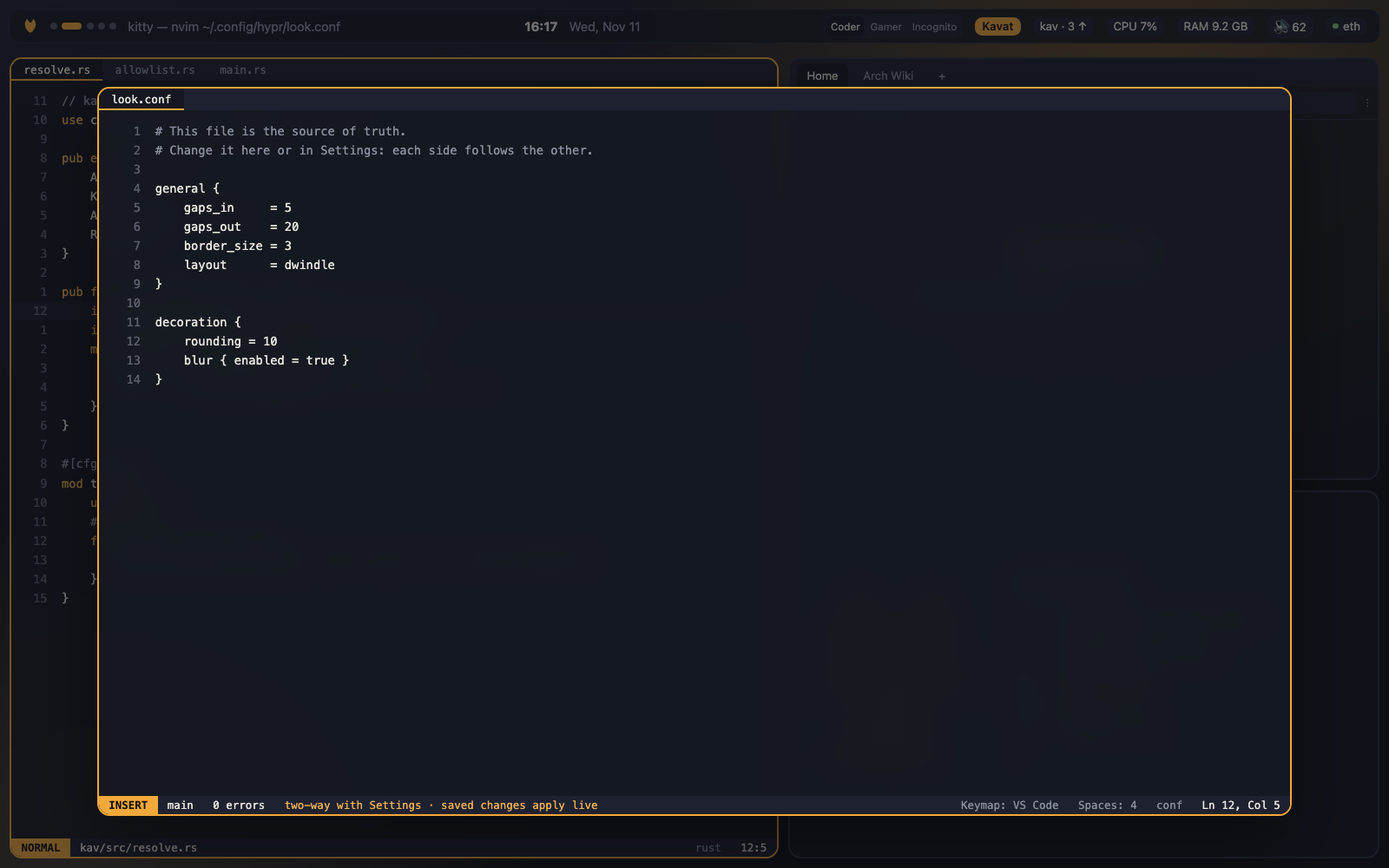
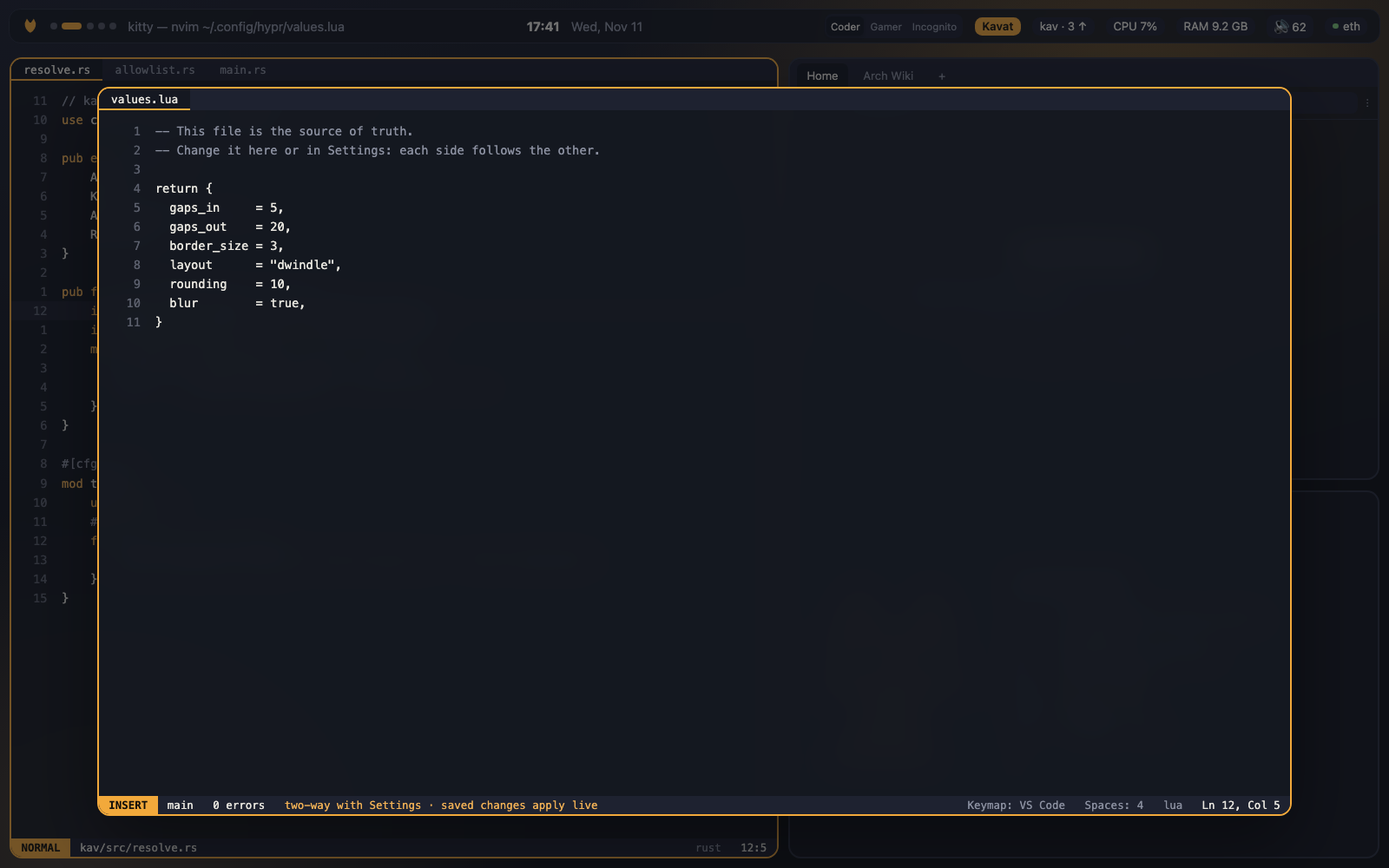
Design: approve four kav mechanisms, Hyprland config in Lua, shell decision
Decisions taken after the study of other distributions:

- kav gains one-time migrations after each update, Arch manual interventions
  as guided steps, two transaction guards, and a health check that remembers
  the last good snapshot (also the mechanism for the automatic safe mode).
  The rest of the shortlisted ideas are dropped to keep the system simple.
- Hyprland is configured in Lua; the settings panel and the agent only write
  a table of plain values that the system's Lua loads.
- Shell: Noctalia if it can host what the design needs, another shell
  otherwise; the evaluation of Noctalia 5 is in progress.
- The Claude side panel as a Kitty split and the Yazi copy pop-up are
  confirmed as designed.
- 'Decisiones en revisión' now carries a status per item.

diff --git a/docs/mockup/index.html b/docs/mockup/index.html
@@ -635,7 +635,7 @@ body.bare .monitor{width:100vw;border-radius:0;box-shadow:none}
         <div class="spage" data-page="appearance"><h2>Appearance <small>one theme, every app</small></h2><div class="sgrid"><div class="col"><div class="blk"><div class="sec">Palette</div><div class="cards js-cards"></div></div><div class="blk"><div class="sec">Mode</div><div class="seg js-mode"><button data-mode="light">Light</button><button data-mode="dark">Dark</button><button data-mode="auto">Auto</button></div></div><div class="blk"><div class="sec">Accent</div><div class="sw js-acc"></div></div></div><div class="col"><div class="blk"><div class="sec">Tone &amp; contrast</div><div class="rows"><div class="row"><span>Tone</span><div class="seg local"><button class="on">Neutral</button><button>Warm</button><button>Cool</button></div></div><div class="row"><span>Contrast</span><div class="seg local"><button class="on">Normal</button><button>High</button></div></div><div class="row"><span>OLED black</span><button class="tog" data-tog="oled"></button></div></div></div><div class="blk"><div class="sec">Typography</div><div class="rows"><div class="row"><span>Interface</span><div class="sel"><span>Inter</span><span class="muted">▾</span></div></div><div class="row"><span>Monospace</span><div class="sel"><span>JetBrains Mono Nerd Font</span><span class="muted">▾</span></div></div><div class="row"><span>Scale</span><div class="sel"><span>100%</span><span class="muted">▾</span></div></div></div></div><div class="blk"><div class="sec">Profiles</div><div class="rows"><div class="chips"><span class="pill">work</span><span class="pill accent">night</span><span class="pill">presenting</span><span class="pill">+ Save current</span></div><div class="row w"><span>Switch to “night” at sunset</span><button class="tog on"></button></div><div class="row w"><span>Keyboard and case lights follow the accent</span><button class="tog on"></button></div></div></div></div></div></div>
         <div class="spage" data-page="wallpaper"><h2>Wallpaper <small>image or live video · <span class="js-wallstate"></span></small></h2><div class="sgrid"><div class="col"><div class="blk"><div class="sec">Library</div><div class="ktool" style="margin-bottom:.7em"><div class="seg local"><button class="on">All</button><button>Images</button><button>Live</button></div><span class="sp"></span><span class="btn">+ Add file</span></div><div class="wgrid"><button class="wcard" data-wall="theme"><span class="wpv w-theme"></span><span class="wl"><span>Kavat</span><span class="muted">Image</span></span></button><button class="wcard" data-wall="dunes"><span class="wpv w-dunes"></span><span class="wl"><span>Dunes</span><span class="muted">Image</span></span></button><button class="wcard" data-wall="mesh"><span class="wpv w-mesh"></span><span class="wl"><span>Mesh</span><span class="muted">Image</span></span></button><button class="wcard" data-wall="aurora"><span class="wpv w-aurora"></span><span class="wl"><span>Aurora</span><span class="live">▶ Live</span></span></button><button class="wcard" data-wall="ember"><span class="wpv w-ember"></span><span class="wl"><span>Ember</span><span class="live">▶ Live</span></span></button><button class="wcard"><span class="wpv wadd">+</span><span class="wl"><span class="muted">Drop a file here</span></span></button></div></div><div class="blk"><div class="sec">Folders</div><div class="rows"><div class="row"><span>Images</span><div class="sel"><span>~/Pictures/Wallpapers/images</span><span class="muted">▾</span></div></div><div class="row"><span>Live</span><div class="sel"><span>~/Pictures/Wallpapers/live</span><span class="muted">▾</span></div></div><div class="row"><span>Slideshow</span><div class="sel"><span>Off</span><span class="muted">▾</span></div></div></div></div></div><div class="col"><div class="blk"><div class="sec">Live wallpaper</div><div class="rows"><div class="row"><span>Player</span><div class="sel"><span>mpvpaper</span><span class="muted">▾</span></div></div><div class="row"><span>Engine package</span><span class="ok">mpvpaper installed · kept by kav</span></div><div class="row"><span>Sound</span><button class="tog"></button></div><div class="row"><span>Fit</span><div class="sel"><span>Fill</span><span class="muted">▾</span></div></div><div class="row"><span>GPU decoding</span><button class="tog on"></button></div></div></div><div class="blk"><div class="sec">Pause the video when</div><div class="rows"><div class="row w"><span>A window is fullscreen</span><button class="tog on"></button></div><div class="row w"><span>The wallpaper is covered</span><button class="tog on"></button></div><div class="row w"><span>Gamer mode is on</span><button class="tog on"></button></div><div class="row w"><span>The screen is locked or off</span><button class="tog on"></button></div></div></div><div class="blk"><div class="sec">Also</div><div class="rows"><div class="row w"><span>Login and lock use a still frame</span><button class="tog on"></button></div><div class="row w"><span>Take theme colors from the wallpaper</span><button class="tog"></button></div><div class="row w"><span>A different wallpaper per display</span><button class="tog"></button></div></div></div></div></div></div>
         <div class="spage" data-page="access"><h2>Accessibility <small>easier to see, calmer to use</small></h2><div class="sgrid"><div class="col"><div class="blk"><div class="sec">Motion</div><div class="rows"><div class="row"><span>Reduce motion</span><button class="tog"></button></div><div class="row"><span>Also stops live wallpapers</span><button class="tog on"></button></div></div></div><div class="blk"><div class="sec">Text</div><div class="rows"><div class="row"><span>Text scale</span><div class="seg local"><button class="on">100%</button><button>110%</button><button>125%</button><button>150%</button></div></div><div class="row"><span>Applies to</span><span class="muted">every app, no resolution change</span></div></div></div></div><div class="col"><div class="blk"><div class="sec">Contrast</div><div class="rows"><div class="row"><span>High contrast</span><button class="tog"></button></div><div class="row"><span>Same switch as</span><span class="muted">Appearance → Contrast</span></div></div></div><div class="muted hint">These write the same values as Appearance and Windows. They are grouped here so they are easy to find.</div></div></div></div>
-        <div class="spage" data-page="windows"><h2>Windows <small>Hyprland · changes apply live</small></h2><div class="sgrid"><div class="col"><div class="blk"><div class="sec">Layout</div><div class="rows"><div class="row"><span>Tiling</span><div class="sel"><span>Dwindle</span><span class="muted">▾</span></div></div><div class="row"><span>Gaps</span><input type="range" data-bind="gap" min="0" max="1.6" step="0.1"></div><div class="row"><span>Corner radius</span><input type="range" data-bind="rad" min="0" max="1.6" step="0.1"></div><div class="row"><span>Border width</span><div class="sel"><span>3 px</span><span class="muted">▾</span></div></div></div></div><div class="blk"><div class="sec">Input</div><div class="rows"><div class="row"><span>Keyboard</span><div class="sel"><span>English (US)</span><span class="muted">▾</span></div></div><div class="row"><span>Focus follows mouse</span><button class="tog on"></button></div><div class="row"><span>Pointer speed</span><input type="range" min="0" max="100" value="50"></div></div></div></div><div class="col"><div class="blk"><div class="sec">Effects</div><div class="rows"><div class="row"><span>Blur</span><button class="tog" data-tog="blur"></button></div><div class="row"><span>Animations</span><button class="tog on"></button></div><div class="row"><span>Animation speed</span><div class="sel"><span>Fast</span><span class="muted">▾</span></div></div><div class="row"><span>Shadows</span><button class="tog on"></button></div></div></div><div class="blk"><div class="sec">Window rules</div><div class="rows"><div class="row"><span>Steam</span><div class="sel"><span>Workspace 5 · float dialogs</span><span class="muted">▾</span></div></div><div class="row"><span>Vesktop</span><div class="sel"><span>Workspace 4</span><span class="muted">▾</span></div></div><div class="chips"><span class="btn">+ Add rule</span></div></div></div></div></div><div class="note">Two-way: change a value here and its line in <span class="mono">~/.config/hypr/look.conf</span> is rewritten; edit the file and this page follows. <u data-cfg="windows">Open it in Neovim</u></div></div>
+        <div class="spage" data-page="windows"><h2>Windows <small>Hyprland · changes apply live</small></h2><div class="sgrid"><div class="col"><div class="blk"><div class="sec">Layout</div><div class="rows"><div class="row"><span>Tiling</span><div class="sel"><span>Dwindle</span><span class="muted">▾</span></div></div><div class="row"><span>Gaps</span><input type="range" data-bind="gap" min="0" max="1.6" step="0.1"></div><div class="row"><span>Corner radius</span><input type="range" data-bind="rad" min="0" max="1.6" step="0.1"></div><div class="row"><span>Border width</span><div class="sel"><span>3 px</span><span class="muted">▾</span></div></div></div></div><div class="blk"><div class="sec">Input</div><div class="rows"><div class="row"><span>Keyboard</span><div class="sel"><span>English (US)</span><span class="muted">▾</span></div></div><div class="row"><span>Focus follows mouse</span><button class="tog on"></button></div><div class="row"><span>Pointer speed</span><input type="range" min="0" max="100" value="50"></div></div></div></div><div class="col"><div class="blk"><div class="sec">Effects</div><div class="rows"><div class="row"><span>Blur</span><button class="tog" data-tog="blur"></button></div><div class="row"><span>Animations</span><button class="tog on"></button></div><div class="row"><span>Animation speed</span><div class="sel"><span>Fast</span><span class="muted">▾</span></div></div><div class="row"><span>Shadows</span><button class="tog on"></button></div></div></div><div class="blk"><div class="sec">Window rules</div><div class="rows"><div class="row"><span>Steam</span><div class="sel"><span>Workspace 5 · float dialogs</span><span class="muted">▾</span></div></div><div class="row"><span>Vesktop</span><div class="sel"><span>Workspace 4</span><span class="muted">▾</span></div></div><div class="chips"><span class="btn">+ Add rule</span></div></div></div></div></div><div class="note">Two-way: this page writes plain values to <span class="mono">~/.config/hypr/values.lua</span>, which Hyprland’s Lua configuration loads; edit the file and this page follows. <u data-cfg="windows">Open it in Neovim</u></div></div>
         <div class="spage" data-page="keys"><h2>Keybindings <small>28 bindings · yours from Endgame, plus the new ones</small></h2><div class="ktool"><div class="find" style="flex:1">Filter bindings…</div><div class="seg local"><button class="on">All</button><button>Windows</button><button>Workspaces</button><button>Apps</button><button>System</button></div><span class="btn">Cheat sheet</span></div><div class="ktab"><div class="kr head"><span>Action</span><span>Shortcut</span><span>Source</span></div><div class="kr"><span>Terminal</span><span class="keys"><span class="kbd">Super</span><span class="kbd">Enter</span></span><span><span class="badge muted">Endgame</span></span></div><div class="kr"><span>Close window</span><span class="keys"><span class="kbd">Super</span><span class="kbd">Q</span></span><span><span class="badge muted">Endgame</span></span></div><div class="kr"><span>App launcher</span><span class="keys"><span class="kbd">Super</span><span class="kbd">D</span></span><span><span class="badge muted">Endgame</span></span></div><div class="kr"><span>Files (Yazi)</span><span class="keys"><span class="kbd">Super</span><span class="kbd">E</span></span><span><span class="badge muted">Endgame</span></span></div><div class="kr"><span>Toggle floating</span><span class="keys"><span class="kbd">Super</span><span class="kbd">V</span></span><span><span class="badge muted">Endgame</span></span></div><div class="kr"><span>Toggle split</span><span class="keys"><span class="kbd">Super</span><span class="kbd">J</span></span><span><span class="badge muted">Endgame</span></span></div><div class="kr"><span>Move focus</span><span class="keys"><span class="kbd">Super</span><span class="kbd">← ↑ ↓ →</span></span><span><span class="badge muted">Endgame</span></span></div><div class="kr"><span>Go to workspace</span><span class="keys"><span class="kbd">Super</span><span class="kbd">1 … 0</span></span><span><span class="badge muted">Endgame</span></span></div><div class="kr"><span>Scratchpad</span><span class="keys"><span class="kbd">Super</span><span class="kbd">S</span></span><span><span class="badge muted">Endgame</span></span></div><div class="kr"><span>Clipboard history</span><span class="keys"><span class="kbd">Super</span><span class="kbd">Shift</span><span class="kbd">V</span></span><span><span class="badge muted">Endgame</span></span></div><div class="kr"><span>Lock</span><span class="keys"><span class="kbd">Super</span><span class="kbd">Shift</span><span class="kbd">L</span></span><span><span class="badge muted">Endgame</span></span></div><div class="kr"><span>Ask Kavat</span><span class="keys"><span class="kbd">Super</span><span class="kbd">Space</span></span><span><span class="badge acc">Kavat</span></span></div><div class="kr"><span>Switch mode</span><span class="keys"><span class="kbd">Super</span><span class="kbd">Shift</span><span class="kbd">M</span></span><span><span class="badge acc">Kavat</span></span></div><div class="kr edit"><span>Theme picker</span><span class="keys"><span class="kbd">Super</span><span class="kbd">J</span><span class="bad" style="margin-left:.6em">already used by “Toggle split”</span></span><span><span class="btn">Keep Super+T</span></span></div></div></div>
         <div class="spage" data-page="displays"><h2>Displays <small>1 connected</small></h2><div class="sgrid"><div class="col"><div class="dcanvas"><div class="dmon"><div><b>1</b><br><span class="muted">DP-1</span></div></div></div><div class="muted hint">Drag displays to arrange them. A second display shows up here when you plug it in.</div><div class="blk"><div class="sec">Workspaces</div><div class="rows"><div class="row"><span>Workspaces 1–10</span><div class="sel"><span>DP-1</span><span class="muted">▾</span></div></div><div class="row"><span>New displays</span><div class="sel"><span>Extend to the right</span><span class="muted">▾</span></div></div></div></div></div><div class="col"><div class="blk"><div class="sec">DP-1</div><div class="rows"><div class="row"><span>Resolution</span><div class="sel"><span>1920 × 1080</span><span class="muted">▾</span></div></div><div class="row"><span>Refresh rate</span><div class="sel"><span>100 Hz</span><span class="muted">▾</span></div></div><div class="row"><span>Scale</span><div class="sel"><span>100%</span><span class="muted">▾</span></div></div><div class="row"><span>Rotation</span><div class="sel"><span>None</span><span class="muted">▾</span></div></div><div class="row"><span>Adaptive sync</span><button class="tog on"></button></div></div></div><div class="blk"><div class="sec">Night light</div><div class="rows"><div class="row"><span>Enabled</span><button class="tog"></button></div><div class="row"><span>Schedule</span><div class="sel"><span>Sunset to sunrise</span><span class="muted">▾</span></div></div><div class="row"><span>Warmth</span><input type="range" min="0" max="100" value="40"></div></div></div></div></div></div>
         <div class="spage" data-page="gpu"><h2>GPU <small>Radeon RX 6800 · 16 GB</small></h2><div class="sgrid"><div class="col"><div class="blk"><div class="sec">Right now</div><div class="rows"><div class="row"><span>Temperature</span><span class="">58 °C</span></div><div class="row"><span>Fan</span><span class="">34%</span></div><div class="row"><span>Power</span><span class="">96 W</span></div><div class="row"><span>Memory</span><span class="">3.9 of 16 GB</span></div></div></div><div class="blk"><div class="sec">Fan curve</div><svg class="fcurve" viewBox="0 0 200 70" preserveAspectRatio="none"><polyline points="0,62 50,58 100,42 150,20 200,5" fill="none" stroke="currentColor" stroke-width="2" vector-effect="non-scaling-stroke"/></svg><div class="rows" style="margin-top:.6em"><div class="row"><span>Curve</span><div class="seg local"><button>Quiet</button><button class="on">Balanced</button><button>Cool</button></div></div></div></div></div><div class="col"><div class="blk"><div class="sec">Limits</div><div class="rows"><div class="row"><span>Power limit</span><div class="sel"><span>Stock</span><span class="muted">▾</span></div></div><div class="row"><span>Sensors in the bar</span><button class="tog on"></button></div></div></div><div class="blk"><div class="sec">Per-game profiles</div><div class="lst"><div class="li"><span class="">Default</span><span class="sp"></span><span class="muted">no frame cap · overlay off</span></div><div class="li"><span class="">Competitive</span><span class="sp"></span><span class="muted">240 fps cap · overlay on · cool fans</span></div><div class="li"><span class="">Story games</span><span class="sp"></span><span class="muted">60 fps cap · quiet fans</span></div></div><div class="chips"><span class="btn">+ New profile</span><span class="btn">Assign to a game</span></div></div></div></div></div>
@@ -836,9 +836,9 @@ const esc=t=>t.replace(/&/g,'&amp;').replace(/</g,'&lt;').replace(/>/g,'&gt;');
 const CFG={
   appearance:['~/.config/kavat/theme.toml',()=>[`palette = "${S.pal}"`,`mode    = "${S.mode}"`,`accent  = ${S.acc+1}`,`radius  = ${Math.round(S.rad*11)}`,`blur    = ${S.blur}`,`oled    = ${S.oled}`]],
   wallpaper:['~/.config/kavat/settings.toml',()=>['[wallpaper]',`current = "${S.wall}"`,`kind    = "${['aurora','ember'].includes(S.wall)?'video':'image'}"`,'player  = "mpvpaper"','sound   = false','pause_when = ["fullscreen", "covered", "gamer", "locked"]']],
-  windows:['~/.config/hypr/look.conf',()=>['general {',`    gaps_in     = ${Math.round(S.gap*7)}`,`    gaps_out    = ${Math.round(S.gap*28)}`,'    border_size = 3','    layout      = dwindle','}','','decoration {',`    rounding = ${Math.round(S.rad*11)}`,`    blur { enabled = ${S.blur} }`,'}']],
-  keys:['~/.config/hypr/binds.conf',()=>['bind = SUPER, Return, exec, kitty','bind = SUPER, Q, killactive,','bind = SUPER, D, exec, kavat launcher','bind = SUPER, E, exec, kitty -e yazi','bind = SUPER, Space, exec, kavat ask','bind = SUPER SHIFT, M, exec, kavat mode next']],
-  displays:['~/.config/hypr/monitors.conf',()=>['monitor = DP-1, 1920x1080@100, 0x0, 1','misc { vrr = 1 }']],
+  windows:['~/.config/hypr/values.lua',()=>['return {',`  gaps_in     = ${Math.round(S.gap*7)},`,`  gaps_out    = ${Math.round(S.gap*28)},`,'  border_size = 3,','  layout      = "dwindle",',`  rounding    = ${Math.round(S.rad*11)},`,`  blur        = ${S.blur},`,'}']],
+  keys:['~/.config/hypr/binds.lua',()=>['return {','  { "SUPER", "Return", exec = "kitty" },','  { "SUPER", "Q", action = "close" },','  { "SUPER", "D", exec = "kavat launcher" },','  { "SUPER", "E", exec = "kitty -e yazi" },','  { "SUPER", "Space", exec = "kavat ask" },','  { "SUPER SHIFT", "M", exec = "kavat mode next" },','}']],
+  displays:['~/.config/hypr/monitors.lua',()=>['return {','  { name = "DP-1", mode = "1920x1080@100", position = "0x0", scale = 1 },','  vrr = true,','}']],
   terminal:['~/.config/kitty/kitty.conf',()=>['font_family          JetBrains Mono Nerd Font','font_size            12.0','background_opacity   0.92','window_padding_width 12','cursor_shape         block','scrollback_lines     10000','include              kavat-theme.conf']],
   editor:['~/.config/nvim/init.lua',()=>['require("kavat").setup({','  keymap = "vscode",','  open_ready_to_type = true,','  line_numbers = "relative",','  format_on_save = true,','})','','vim.opt.tabstop = 4']],
   files:['~/.config/yazi/yazi.toml',()=>['[mgr]','show_hidden    = false','sort_by        = "natural"','sort_dir_first = true','','[opener]','edit = [{ run = \'nvim "$@"\', block = true }]','pdf  = [{ run = \'zathura "$@"\', orphan = true }]']],

diff --git a/docs/DESIGN.md b/docs/DESIGN.md
@@ -127,6 +127,8 @@ Hyprland compone las ventanas y un fork de Noctalia (hecho sobre Quickshell) pon
 - Los atajos parten de los de tu Willwitcher-OS Endgame, sin cambiar ninguno; lo nuevo solo ocupa teclas que tenías libres. Una hoja de atajos se genera desde la configuración.
 - Animaciones, bordes, radio y desenfoque salen de los tokens del tema, no de valores escritos a mano. Los valores iniciales son los de Endgame: radio 10, borde 2, separación 5 entre ventanas y 20 al borde, animaciones cortas.
 
+Desde Hyprland 0.55 la configuración es Lua, y así se usa. El panel de ajustes y el agente no generan Lua: escriben una tabla de valores, que son datos, y el Lua del sistema la carga. Así ningún texto que venga de fuera llega a ejecutarse.
+
 Atajos: 19 heredados de Endgame tal cual y 9 nuevos para lo que antes no existía.
 
 | Acción | Atajo | Origen |
@@ -256,7 +258,7 @@ Cómo funciona:
 - **Calle de doble sentido.** Si cambias un valor a mano, el panel lo muestra al momento. Si lo cambias en el panel, el panel edita esa línea en el archivo, sin tocar el resto ni los comentarios. No hay una segunda copia que pueda quedar desfasada.
 - **Validar antes de aplicar.** Cada cambio de configuración, venga del panel o de tu editor, se comprueba antes de cargarse. Si el escritorio no recarga bien, vuelve solo a la última versión buena y te dice qué línea falló. Si aun así no arranca, queda el modo seguro del menú de arranque.
 - **Lo que el panel no tiene vive solo en el archivo.** El panel no lo toca, no lo oculta y no lo borra.
-- **Límite en archivos que son código.** En el `init.lua` de Neovim y en `.zshrc`, el panel solo edita el bloque de ajustes que le corresponde; el resto lo deja como está y lo abre en Neovim.
+- **Límite en archivos que son código.** En `la configuración de Hyprland, que es Lua, en el init.lua de Neovim y en .zshrc, el panel solo edita su tabla de valores o su bloque de ajustes`; el resto lo deja como está y lo abre en Neovim.
 - **Abrir la configuración en Neovim, en todas partes.** Cada página del panel y cada pieza del sistema (el panel del agente, el selector de temas, `kav`, Yazi, el navegador, el marketplace) tiene un botón que abre su archivo de configuración en Neovim, en la sección que corresponde.
 - **En vivo y reversible**: cada cambio, venga del panel o del archivo, se aplica al instante; tiene deshacer y queda en un historial para volver a cualquier estado anterior.
 - **Editor de atajos**: muestra todos, detecta conflictos al asignar y regenera la hoja de atajos.
@@ -440,6 +442,13 @@ Tres reglas de la TUI:
 - Los paquetes oficiales se actualizan todos juntos: Arch no soporta actualizaciones parciales, así que la TUI no ofrece elegir uno suelto.
 - Teclado primero, con ratón opcional: los números cambian de pestaña, `/` busca y `?` muestra la ayuda.
 - Usa los colores del tema del sistema y comparte ajustes con la página Packages del panel de Noctalia.
+
+**Actualizaciones que no te dejan a medias.** Cuatro mecanismos tomados de otras distros, aprobados tras el análisis:
+
+- **Migraciones** (de Omarchy): cuando una versión nueva necesita cambiar algo que pacman no gestiona, como tu configuración o un servicio de usuario, lo hace un script que corre una sola vez, después de pacman y en orden. Si uno falla, la cola se detiene y te avisa; nunca migra en silencio. Su estado se guarda dentro de la raíz, así que volver a un snapshot también deshace las migraciones.
+- **Intervenciones guiadas** (de Garuda y EndeavourOS): cada «intervención manual» que publica Arch se convierte en un paso de `kav update` que explica qué pasa, enseña el comando, pide confirmación y anota que ya se aplicó. El primer caso es volver a inscribir el TPM2 tras mkinitcpio 42.
+- **Dos guardas de transacción** (de Omarchy): si un archivo sin dueño choca con un paquete, se aparta, se reintenta una vez y se devuelve lo que el paquete no reclamó; y Hyprland no recarga su configuración mientras pacman la está cambiando, sino una sola vez al final.
+- **Comprobación de salud con memoria** (de openSUSE): tras cada actualización y en cada arranque se comprueba que el sistema está sano, y se guarda cuál fue la última instantánea buena. Si falla justo después de actualizar, vuelve a esa instantánea; si falla un sistema que ya funcionaba, reinicia una vez y, si sigue mal, se queda encendido con los servicios parados. Es también el mecanismo del modo seguro automático.
 
 ## Sistema de temas
 
@@ -655,53 +664,39 @@ La fase 1 usa Hyprland y Noctalia tal como vienen; los forks y la identidad entr
 
 ## Decisiones en revisión
 
-El análisis de Omarchy y de otras distros encontró ocho hechos de 2026 que tocan decisiones ya escritas en este documento. Ninguna está cambiada todavía: cada una espera tu decisión. El informe completo, con sus fuentes, está en [`reports/Ideas de otras distros Linux.md`](../reports/Ideas%20de%20otras%20distros%20Linux.md).
+El análisis de Omarchy y de otras distros encontró ocho hechos de 2026 que tocan decisiones ya escritas en este documento. La columna Estado dice cuáles ya tienen respuesta y cuáles esperan tu decisión. El informe completo, con sus fuentes, está en [`reports/Ideas de otras distros Linux.md`](../reports/Ideas%20de%20otras%20distros%20Linux.md).
 
-| # | Decisión que toca | Qué se encontró | Opciones |
+| # | Decisión que toca | Qué se encontró | Estado |
 | --- | --- | --- | --- |
-| 1 | Shell: fork de Noctalia sobre Quickshell | Noctalia congeló su versión en Quickshell (v4) en abril de 2026, y la v5 es una reescritura en C++ sin Qt. El fork se queda sin upstream del que tomar parches | Mantener nosotros la v4 congelada; pasar a Noctalia v5 y dejar Quickshell; o partir de otro shell vivo en Quickshell (Dux Shell, Caelestia, illogical-impulse o el de Omarchy) |
-| 2 | Configuración de Hyprland en archivos que el panel edita línea a línea | Desde Hyprland 0.55 la configuración es Lua y el formato anterior está obsoleto | Tratar la de Hyprland como archivo de código: el panel escribe una tabla de valores que el Lua del sistema carga, y nunca genera Lua a partir de texto ajeno |
-| 3 | LUKS2 con desbloqueo por TPM2, arrancando con GRUB | mkinitcpio 42 (septiembre de 2026) cambia las mediciones del TPM y obliga a reinscribirlo. Además, según documenta CachyOS, GRUB solo descifra `/boot` con LUKS1 o PBKDF2, lo que tensa «cada snapshot con su kernel» en discos cifrados | Convertir la reinscripción en un paso guiado de `kav update`, y decidir en la fase 2 dónde vive el kernel de cada snapshot |
-| 4 | Secure Boot con llaves propias | El nuevo anti-cheat de Epic para Linux (EAC v2, anunciado en octubre de 2026) pediría un arranque firmado con llaves que Epic reconozca; las propias no valdrían. Es fuente secundaria y aún no está desplegado | Aceptar que los juegos que migren a EAC v2 no funcionen; o prever una entrada de arranque con un kernel firmado por un tercero reconocido, sin confirmar que sea viable |
-| 5 | Modo seguro automático tras un arranque fallido | GRUB no cuenta arranques fallidos por sí solo; ese mecanismo es de systemd-boot | Mantener GRUB y construirlo como openSUSE: un archivo con la última instantánea buena y una comprobación de salud al arrancar. Un kernel que no llega a arrancar no lo detectaría |
-| 6 | `kav review` marca lo sospechoso por patrones de texto | Dos oleadas de malware en el AUR en 2026 (más de 1.500 paquetes en junio) burlaron justo ese tipo de detección. La allowlist fijada a commit sí las habría parado | Añadir señales que no dependen del texto: cambio de mantenedor, fecha del último cambio, dependencias nuevas de npm, bun o pip, y compilar sin red |
-| 7 | Snapshots de `/home` cada hora | Omarchy los retiró en su versión 3.6 por uso de disco y por el coste de CPU de las cuotas de Btrfs | Mantenerlos sin cuotas, con menos retención y dejando fuera los juegos de Steam, los prefijos de Wine, las cachés de shaders y los modelos del agente |
-| 8 | Perfiles de sandbox para el navegador | secureblue advierte de que envolver Chromium en un segundo sandbox puede chocar con el suyo y restar seguridad | Diseñar el perfil comprobando que no degrada el sandbox de Chromium; para las apps Electron, usarlas como apps web |
+| 1 | Shell: fork de Noctalia sobre Quickshell | Noctalia congeló su versión en Quickshell (v4) en abril de 2026, y la v5 es una reescritura en C++ sin Qt, con plugins en Luau | Decidido: se usa Noctalia si permite lo que queremos; si no, otro shell. Se está evaluando si la v5 lo permite |
+| 2 | Configuración de Hyprland en archivos que el panel edita línea a línea | Desde Hyprland 0.55 la configuración es Lua y el formato anterior está obsoleto | Decidido: se usa Lua; el panel escribe una tabla de valores que el Lua del sistema carga |
+| 3 | LUKS2 con desbloqueo por TPM2, arrancando con GRUB | mkinitcpio 42 (septiembre de 2026) cambia las mediciones del TPM y obliga a reinscribirlo. Además, según documenta CachyOS, GRUB solo descifra `/boot` con LUKS1 o PBKDF2 | En parte: la reinscripción será una intervención guiada de `kav update`. Queda decidir en la fase 2 dónde vive el kernel de cada snapshot |
+| 4 | Secure Boot con llaves propias | El nuevo anti-cheat de Epic para Linux (EAC v2, anunciado en octubre de 2026) pediría un arranque firmado con llaves que Epic reconozca. Es fuente secundaria y aún no está desplegado | Pendiente: aceptar que esos juegos no funcionen, o prever una entrada de arranque con un kernel firmado por un tercero |
+| 5 | Modo seguro automático tras un arranque fallido | GRUB no cuenta arranques fallidos por sí solo | Resuelto con la comprobación de salud con memoria. Un kernel que no llega a arrancar sigue sin detectarse |
+| 6 | `kav review` marca lo sospechoso por patrones de texto | Dos oleadas de malware en el AUR en 2026 burlaron justo ese tipo de detección. La allowlist fijada a commit sí las habría parado | Pendiente: añadir señales que no dependen del texto, como cambio de mantenedor, fecha del último cambio, dependencias nuevas y compilar sin red |
+| 7 | Snapshots de `/home` cada hora | Omarchy los retiró en su versión 3.6 por uso de disco y por el coste de CPU de las cuotas de Btrfs | Pendiente: mantenerlos sin cuotas, con menos retención y dejando fuera juegos, cachés y modelos |
+| 8 | Perfiles de sandbox para el navegador | secureblue advierte de que envolver Chromium en un segundo sandbox puede restar seguridad | Pendiente: diseñar el perfil comprobando que no degrada el sandbox de Chromium |
 
 Dos ajustes menores, también pendientes: Proton recomienda WireGuard y deja OpenVPN para equipos antiguos; y según CachyOS, poner la CPU en máximo rendimiento en modo Gamer no ayuda en todos los equipos.
 
-## Ideas por evaluar
+## Ideas de otras distros
 
-El informe cataloga 54 ideas nuevas, 36 refinamientos y 17 cosas que no copiar, cada una con un código para aprobarla o descartarla. Estas 20 son las que el informe recomienda aprobar primero; el resto se elige por código en el informe. El coste es una estimación del informe, no un dato de las fuentes.
+De las 20 ideas que el informe recomendaba, se aprobaron las cuatro de `kav` y se descartó el resto para no complicar el sistema. El catálogo completo sigue en el informe por si alguna vuelve a interesar.
 
-| Código | Idea | De dónde viene | Coste |
-| --- | --- | --- | --- |
-| A1 | Migraciones del estado de usuario: scripts que corren una sola vez después de cada actualización, con su estado guardado dentro de la raíz | Omarchy | Semanas |
-| A2 | Intervenciones manuales de Arch convertidas en pasos guiados de `kav update` | Garuda, EndeavourOS | Semanas |
-| A8 | Dos guardas de transacción: apartar archivos sin dueño que chocan con un paquete, y pausar la recarga de Hyprland mientras pacman cambia su configuración | Omarchy | Días |
-| R10 | Comprobación de salud con memoria de la última instantánea buena y respuesta escalonada | openSUSE | Semanas |
-| B1 | Snapshot base permanente tomado por el instalador, para volver al estado de fábrica | Omarchy, CachyOS | Días |
-| B4 | Reiniciar un subsistema (Wi-Fi, Bluetooth, audio) antes que el equipo, como skills | Omarchy | Días |
-| C4 | Apps web como aplicaciones de primera clase, cada una con su perfil | Omarchy, Zorin OS | Días |
-| C5 | Programas de terminal como aplicaciones de primera clase, con reglas de ventana propias | Omarchy | Días |
-| D1 | Disposición desplazable por espacio o por proyecto, manejada con flechas | niri; integrada en Hyprland | Días |
-| D6 | Diálogo de contraseña que oscurece la pantalla, bloquea el foco y dice qué se autoriza | elementary OS, Omarchy | Días a semanas |
-| D9 | Copiar el código de verificación desde la notificación, sin guardarlo en el historial | Omarchy | Días |
-| D10 | Cada app en su propio ámbito de systemd, para que un proceso desbocado no tumbe la sesión | Omarchy | Días |
-| D11 | Diagnóstico de fallos como skill: cuando un proceso cae, el agente recibe el volcado | Omarchy | Días a semanas |
-| E5 | Banco de pruebas local con MangoHud, para comprobar si cada ajuste del modo Gamer sirve | MangoHud | Días a semanas |
-| E3 | Proton empaquetado en `[kavat]` y fijable por juego | CachyOS, Nobara | Semanas |
-| E8 | Ajustes baratos para AMD: caché de shaders mayor y planificador de disco según el tipo | CachyOS | Días |
-| F1 | Navegador de Incognito con su perfil en memoria, que desaparece al salir | Kicksecure, Firejail | Días |
-| F3 | Borde de color en las ventanas de Incognito o en sandbox | Qubes OS | Días |
-| F5 | Con la sesión bloqueada, rechazar dispositivos USB nuevos; tras muchas horas bloqueada, reiniciar | GrapheneOS, secureblue | Días a semanas |
-| F9 | Docker sin el grupo `docker`, que equivale a root sin contraseña | Omarchy | Días |
+| Código | Idea aprobada | De dónde viene |
+| --- | --- | --- |
+| A1 | Migraciones que corren una vez tras cada actualización | Omarchy |
+| A2 | Intervenciones manuales de Arch como pasos guiados | Garuda, EndeavourOS |
+| A8 | Dos guardas durante la actualización | Omarchy |
+| R10 | Comprobación de salud que recuerda la última instantánea buena | openSUSE |
+
+Están descritas en «Gestor de paquetes».
 
 Lo que el informe recomienda no copiar: los repos binarios de CachyOS, porque su política lo prohíbe; el modelo de imagen inmutable; meter el bloqueo de pantalla dentro del shell; los demonios globales de rendimiento; y el endurecimiento que rompe Steam.
 
 ## Decisiones
 
-Las decisiones de esta tabla están tomadas, pero ocho están en revisión por lo que encontró el análisis de otras distros; ver «Decisiones en revisión».
+Las decisiones de esta tabla están tomadas; las que el análisis de otras distros dejó en revisión están en «Decisiones en revisión», con su estado.
 
 | Decidido | Decisión |
 | --- | --- |
@@ -714,11 +709,11 @@ Las decisiones de esta tabla están tomadas, pero ocho están en revisión por l
 | Pantalla de carga | Plymouth con tema propio y cuatro estilos, configurable desde Noctalia |
 | Modo seguro | Entrada del menú de arranque que ignora tu configuración y usa la de fábrica; se selecciona sola tras un arranque fallido |
 | Login | LightDM + web-greeter con tema propio |
-| Hyprland | Sin fork, con configuración propia; fork desde el día 1 solo si la versión actual impide algo |
+| Hyprland | Sin fork, con configuración propia en Lua; el panel solo escribe datos. Fork desde el día 1 solo si la versión actual impide algo |
 | Paleta de comandos | Una sola para todo el sistema, con la gramática de la consola del navegador y de Neovim |
 | Coherencia | Proyectos, un comando `kavat` para todo, hoja de atajos según contexto y captura con texto |
 | Lenguaje de `kav` y `kavatd` | Rust |
-| Gestor de paquetes | `kav` con comandos y con TUI completa sobre el mismo núcleo |
+| Gestor de paquetes | `kav` con comandos y con TUI completa sobre el mismo núcleo; migraciones, intervenciones guiadas, guardas de transacción y comprobación de salud con memoria |
 | Dependencias | Lo que un ajuste, una skill o un plugin necesita lo instala y lo protege `kav` |
 | Software diario | Kitty, zsh, Neovim, Yazi y un fork de Chromium |
 | Prompt de zsh | starship con preset mínimo, sin módulos que lancen procesos |
@@ -758,7 +753,7 @@ Estos supuestos del diseño no son decisiones: se confirman al implementar, y si
 | La prueba tras actualizar detecta un arranque gráfico roto y ofrece volver atrás | 2 |
 | Regenerar la pantalla de carga en segundo plano no bloquea ni rompe el arranque | 3 |
 | Kitty y Neovim distinguen los atajos con `Ctrl+Shift` y `Ctrl+Tab`, y el panel de Claude sigue conectado al editor cuando lo abre Kitty en una división | 3 |
-| Hyprland y Kitty aceptan en vivo todos los cambios del panel de ajustes | 3 |
+| Hyprland y Kitty aceptan en vivo todos los cambios del panel de ajustes; en Hyprland, cargando la tabla de valores desde su configuración en Lua | 3 |
 | El panel puede leer la configuración de cada app y editar una línea suya sin romper el formato ni los comentarios | 3 |
 | La configuración de cada app se puede validar antes de cargarla | 3 |
 | zsh con starship abre dentro del presupuesto de tiempo | 3 |

diff --git a/README.md b/README.md
@@ -126,6 +126,8 @@ An allowed package whose PKGBUILD changes does not update until someone reviews 
 
 With no arguments, `kav` opens a full-screen TUI with seven tabs: Dashboard, Browse, Updates, AUR, Snapshots, Doctor and Settings. That is where you review a PKGBUILD diff with the suspicious lines flagged, walk the snapshot timeline and merge a `.pacnew` without leaving.
 
+Updates do not leave you halfway. Changes that pacman does not manage run as one-time migrations after each update; Arch's manual interventions become guided steps instead of a notice to go and read; and a health check remembers the last good snapshot and goes back to it when an update breaks the system.
+
 ## One system, every skin
 
 Appearance is not a folder of dotfiles. It is a set of independent axes that combine:
@@ -162,7 +164,7 @@ A settings panel inside Noctalia configures the whole core, on twenty-four pages
 
 ## The desktop
 
-- **Hyprland**, with modular configuration: the system's in `/usr/share/kavat/`, yours in `~/.config/`, and yours always wins.
+- **Hyprland**, with modular configuration: the system's in `/usr/share/kavat/`, yours in `~/.config/`, and yours always wins. Its configuration is Lua, and the settings panel only ever writes plain values for that Lua to load.
 - **Noctalia**, in its own fork: bar, launcher, notifications, control centre, plus the agent's panel, the mode selector and the settings panel.
 - **LightDM + web-greeter**, with a login screen that uses your theme and your wallpaper. Entering the desktop has no visual cut.
 - **Kitty and zsh**, with a starship prompt cut down to what costs no time: opening a terminal goes unnoticed.
@@ -317,6 +319,6 @@ This README describes the finished system. Today the project is in **phase 0, de
 | 3 | Themes, settings, greeter, Noctalia fork, `kav` and editor | Pending |
 | 4 | Local agent, skills and voice | Pending |
 
-A study of Omarchy and other distributions reopened eight of those decisions: among them the base of the shell, Hyprland's move to Lua configuration and Secure Boot with own keys. They are listed in the design document under «Decisiones en revisión», next to the ideas still waiting for approval.
+A study of Omarchy and other distributions reopened eight of those decisions. Some are settled (Hyprland's Lua configuration, the automatic safe mode); others are still open, among them whether the current Noctalia can host this shell and what Secure Boot with own keys means for anti-cheat. They are listed, with their status, in the design document under «Decisiones en revisión».
 
 The design also takes several assumptions for granted that have not been tested. They are listed, with the phase in which each gets verified, at the end of the [design document](docs/DESIGN.md#decisiones).
